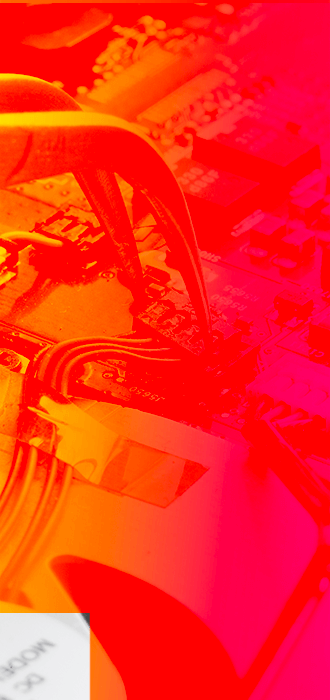
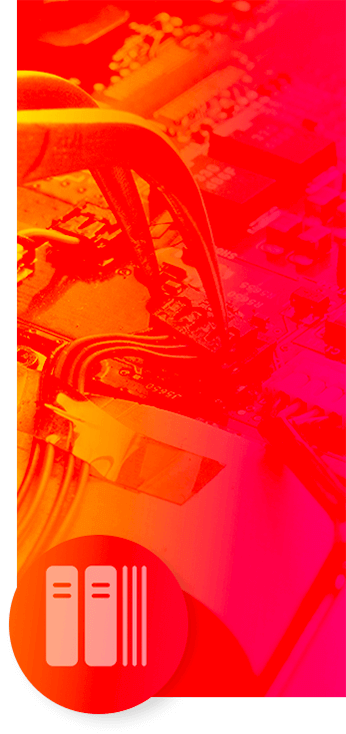
首页布局开发

diff --git a/src/App.vue b/src/App.vue
@@ -12,29 +12,29 @@
     </div>
     <div class="footer-wrap">
       <div class="footer">
-        <div class="fl-box">
-          <img src="" alt="log">
+        <div class="ft-box">
+          <img class="ft_logo" src="./common/images/logo_footer.png" alt="log">
         </div>
-        <div class="fl-box">
-          <p>资产服务</p>
-          <ul>
+        <div class="ft-box">
+          <span>资产服务</span>
+          <ul class="text">
             <li><a href="javascript:void(0)">维修案例</a></li>
             <li><a href="javascript:void(0)">维修设备</a></li>
             <li><a href="javascript:void(0)">汽车资产</a></li>
             <li><a href="javascript:void(0)">汽车零部件</a></li>
           </ul>
         </div>
-        <div class="fl-box">
-          <ul>
+        <div class="ft-box">
+          <ul class="code">
             <li>
-              <a href="#/product">
-                <img src="" alt="Android">
+              <a href="javascript:void(0)">
+                <img class="ft_code" src="./common/images/Android.png" alt="Android">
                 <p>Android版</p>
               </a>
             </li>
             <li>
-              <a href="#/product">
-                <img src="" alt="IOS">
+              <a href="javascript:void(0)">
+                <img class="ft_code" src="./common/images/IOS.png" alt="IOS">
                 <p>IOS版</p>
               </a>
             </li>
@@ -47,9 +47,10 @@
 
 <script>
   import "./common/stylus/index.styl";
-export default {
-  name: 'App'
-}
+  
+  export default {
+    name: 'App'
+  }
 </script>
 
 <style lang="stylus">
@@ -61,15 +62,16 @@ export default {
   
   .head-wrap {
     width: 100%;
+    min-width 1212px
     height: 34px;
     background-color: #e5e5e5;
     .head {
       box-sizing: border-box
-      width: 1200px;
+      width: 1212px;
       margin: 0 auto;
       text-align right
       line-height 34px
-      a{
+      a {
         margin-left 30px
         color: #666666;
       }
@@ -81,32 +83,67 @@ export default {
     box-sizing: border-box;
     margin: 0 auto;
     width 100%
-    min-width 1200px
+    min-width 1212px
   }
   .footer-wrap {
     width 100%
-    min-width 1200px
+    min-width 1212px
     background-color: #272324;
     .footer {
       box-sizing: border-box
-      width 1200px
+      width 1212px
       height 156px
       margin 0 auto
-      .fl-box {
-        p{
-          font-size 16px
-          color #ffffff
+      font-size 0
+      text-align center
+      .ft-box {
+        display inline-block
+        font-size 16px
+        vertical-align top
+        margin-right 66px
+        .ft_logo {
+          margin-top 38px
         }
-        ul{
+        span {
+          padding-top 45px
+          display block
+          color #ffffff
+          text-align left
+        }
+        .text {
           font-size 0
-          li{
+          li {
+            padding-top 25px
             display inline-block
             font-size 14px
-            a{
+            margin-right 77px
+            a {
               color #ffffff
             }
           }
+          li:last-child {
+            margin-right 0
+          }
         }
+        .code {
+          font-size 0
+          li {
+            padding 30px 16px 0
+            display inline-block
+            font-size 14px
+            a {
+              color #ffffff
+              p {
+                font-size 16px
+                color #ffffff
+                padding-top 14px
+              }
+            }
+          }
+        }
+      }
+      .ft-box:last-child {
+        margin-right -16px
       }
     }
   }

diff --git a/src/components/home/home.vue b/src/components/home/home.vue
@@ -1,6 +1,29 @@
 <template>
   <div class="home">
-    home
+    <div class="top">top</div>
+    <div class="banner"></div>
+    <div class="list">
+      <div class="case clearfix">
+        <div class="fl fl_bg"></div>
+        <div class="fr">1</div>
+      </div>
+      <div class="facility clearfix">
+        <div class="fl fl_bg"></div>
+        <div class="fr">2</div>
+      </div>
+      <!--<div class="property clearfix">
+        <div class="fl fl_bg"></div>
+        <div class="fr">3</div>
+      </div>
+      <div class="parts clearfix">
+        <div class="fl fl_bg"></div>
+        <div class="fr">4</div>
+      </div>-->
+      <div class="partner clearfix">
+        <div class="fl fl_bg"></div>
+        <div class="fr">5</div>
+      </div>
+    </div>
   </div>
 </template>
 
@@ -8,14 +31,78 @@
   export default {
     name: "home",
     data() {
-      return {
-      }
+      return {}
     },
   }
 </script>
 
 <style scoped lang="stylus">
-  .home{
-  
+  .home {
+    .top {
+      box-sizing border-box
+      width 1212px
+      height 130px
+      margin 0 auto
+      border 1px solid red
+    }
+    .banner {
+      box-sizing border-box
+      height 600px
+      background-image: url('./images/banner.png');
+      background-position: top center;
+      background-repeat: no-repeat;
+      background-size: cover;
+      /*background-size:contain;*/
+      /*background-size:auto;*/
+    }
+    .list {
+      width 1212px
+      margin 0 auto
+      .case{
+        .fl_bg{
+          width 346px
+          height 734px
+          background-image: url('./images/01.png');
+          background-position: top center;
+          background-repeat: no-repeat;
+        }
+      }
+      .facility{
+        .fl_bg{
+          width 346px
+          height 734px
+          background-image: url('./images/02.png');
+          background-position: top center;
+          background-repeat: no-repeat;
+        }
+      }
+      /*.property{
+        .fl_bg{
+          width 346px
+          height 734px
+          background-image: url('./images/03.png');
+          background-position: top center;
+          background-repeat: no-repeat;
+        }
+      }
+      .parts{
+        .fl_bg{
+          width 346px
+          height 734px
+          background-image: url('./images/04.png');
+          background-position: top center;
+          background-repeat: no-repeat;
+        }
+      }*/
+      .partner{
+        .fl_bg{
+          width 346px
+          height 330px
+          background-image: url('./images/cooperation.png');
+          background-position: top right ;
+          background-repeat: no-repeat;
+        }
+      }
+    }
   }
 </style>
